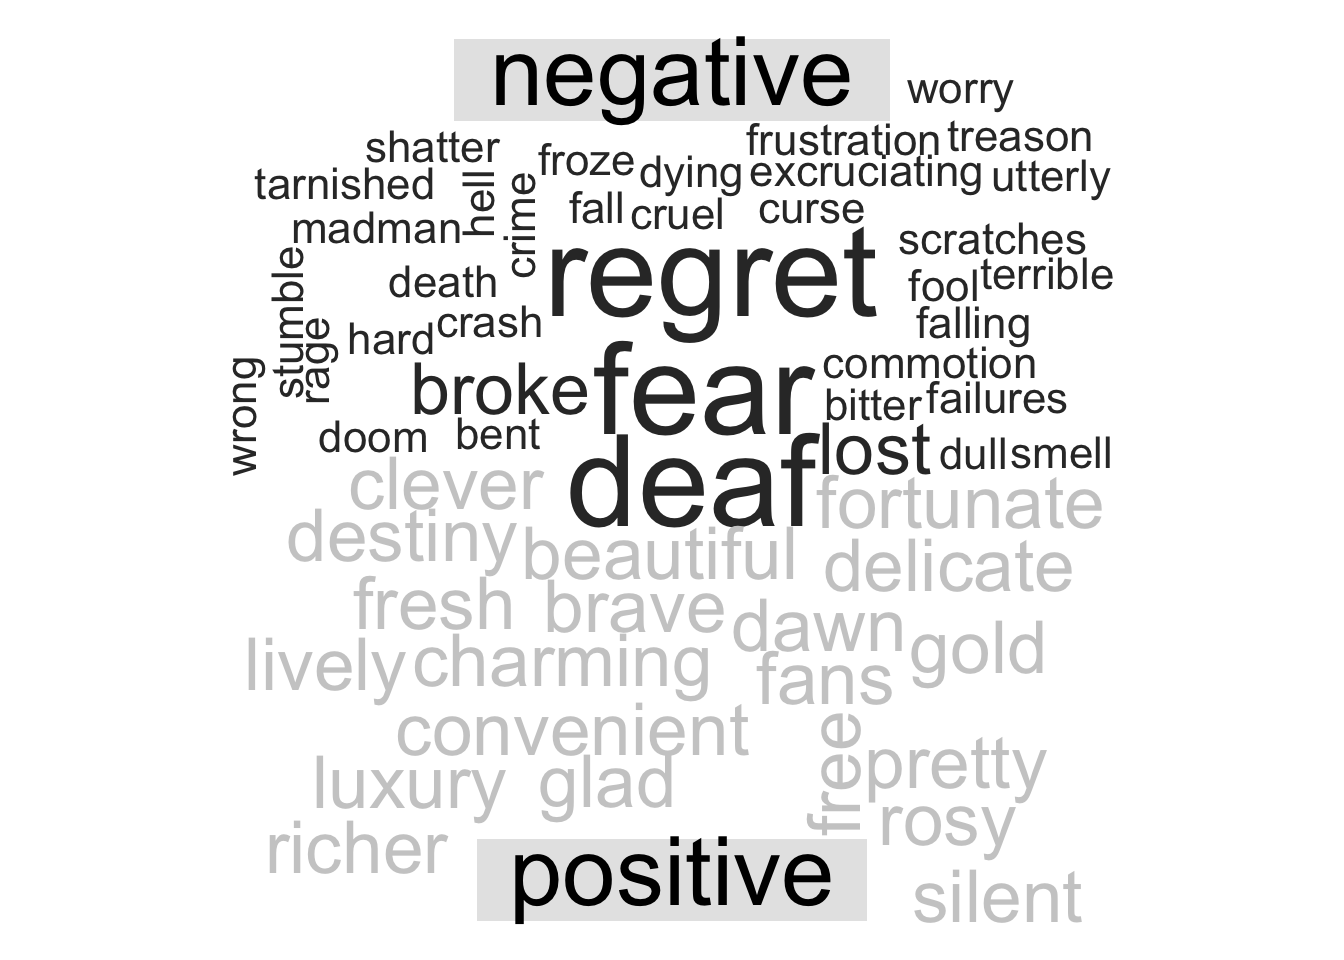
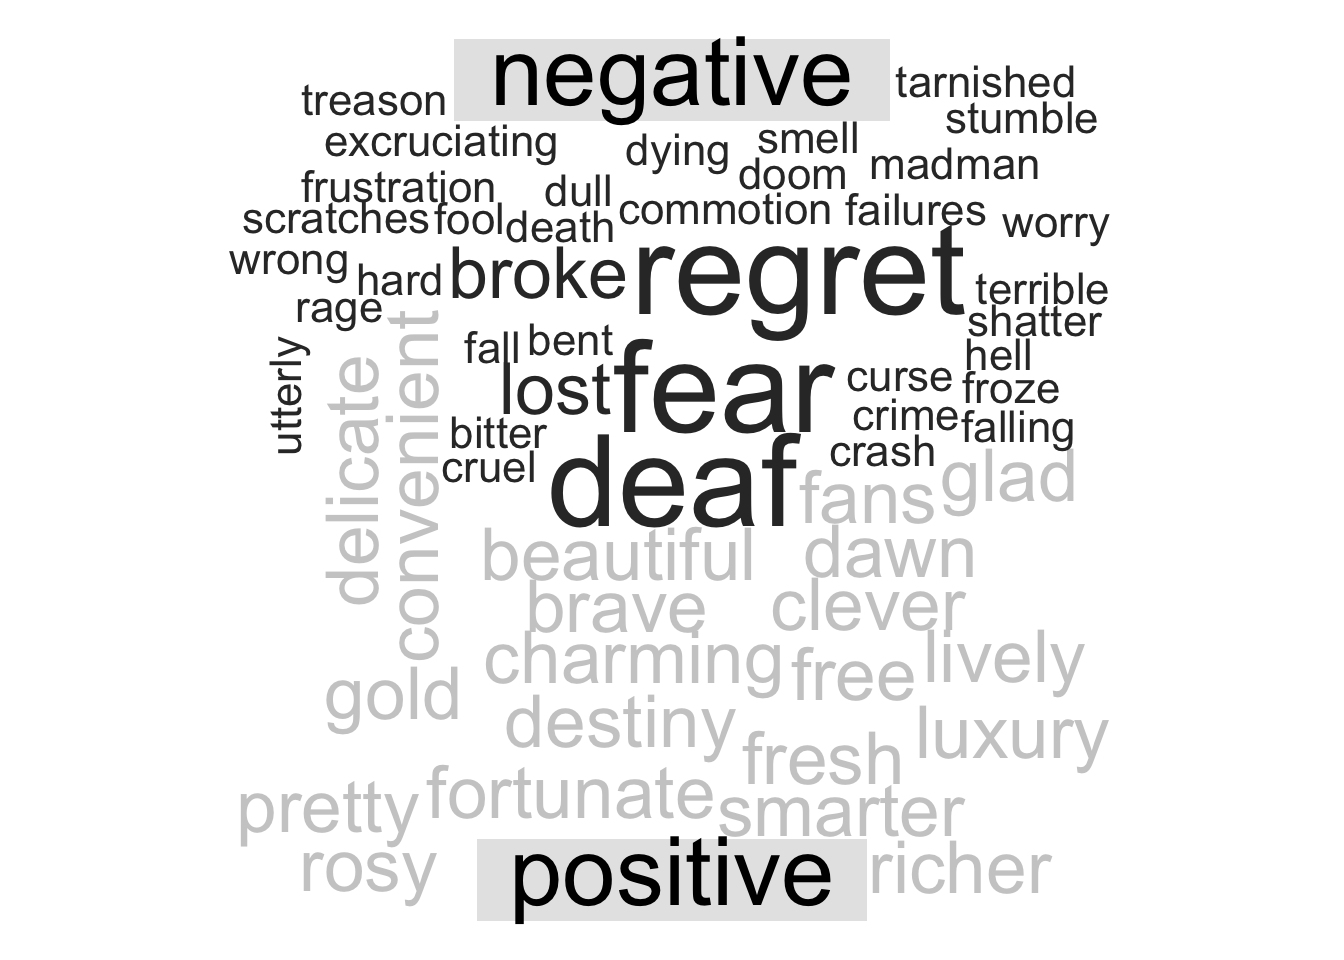
Test commit of poems and STEM project Grade 8

Changed region(s): [[0.1562, 0.0625, 0.8438, 0.9688]]

diff --git a/content/post/2018-11-19-stem-project-grade-8.html b/content/post/2018-11-19-stem-project-grade-8.html
@@ -1,0 +1,88 @@
+---
+title: STEM Project Grade 8
+author: Tara Kenner
+date: '2018-11-19'
+slug: stem-project-grade-8
+categories:
+  - data
+  - STEM
+  - Chemistry
+  - Chemotaxis
+  - Slime Mold
+tags:
+  - blogdown
+  - ggplot
+  - highcharter
+  - linear regression
+  - Statistics
+  - Physarum Polycephalum
+---
+
+
+
+<div id="title" class="section level3">
+<h3>Title</h3>
+<p>Investigating Chemotaxis by Analyzing the Effect of Glucose/Caffeine on Physarum Polycephalum cultures.</p>
+</div>
+<div id="introduction" class="section level3">
+<h3>Introduction</h3>
+<p>I wanted to do a project that involved observations in nature and apply statistics on those observations. We take our 10-lb dog Prince on a walk everyday around the Jordan Woods Natural Area, and I’ve noticed slime molds on fallen trees…etc…This got me interested in learning more about slime molds. Per this article <a href="https://www.quantamagazine.org/slime-molds-remember-but-do-they-learn-20180709/" class="uri">https://www.quantamagazine.org/slime-molds-remember-but-do-they-learn-20180709/</a>, there are more than 900 different species of slime molds, and a particular fascinating read (also cited in “Background Information”), titled “Slime molds crack 3 of the biggest issues in the U.S” by Robby Berman, that summarizes the results of the experiments by Jonathon Keats using slime molds to crack those 3 biggest issues (Destruction of our climate, The opioid epidemic, and immigration) motivated me to further understand these problem-solving, habituated-learning and smart “neuron-less and brain-less” Physarum Polycephalum via a project.</p>
+</div>
+<div id="questions" class="section level3">
+<h3>Questions</h3>
+<ul>
+<li>How will Physarum Polycephalum respond towards varying concentrations of glucose?
+<ul>
+<li>Is there a correlation we can establish between varying concentrations of glucose and PP’s chemotaxis?</li>
+<li>How will it respond when we substitute caffeine or salt for glucose?</li>
+</ul></li>
+<li>How long does it take a P. Polycephalum to find the glucose?</li>
+<li>What are the different ways Physarum Polycephalum responds to its environment/chemical stimuli?</li>
+<li>What are the various stages of growth of Physarum Plycephalum?</li>
+<li>Is Physarum Polycephalum capable of optimally finding food sources and avoiding harmful stimuli?</li>
+</ul>
+</div>
+<div id="variables" class="section level3">
+<h3>Variables</h3>
+<ul>
+<li>Independent: Food Source:
+<ul>
+<li>Different concentrations of glucose: 100-mM(millimolar), 10-mM, 1.0-mM, 0.1-mM, No * Glucose</li>
+<li>Different concentrations of caffeine: TBD, No Caffeine</li>
+</ul></li>
+<li>Dependent: Number of PP cultures that show:
+<ul>
+<li>Positive Growth: Towards Glucose/Caffeine</li>
+<li>Negative Growth: Away from Glucose/Caffeine</li>
+<li>Neutral Growth: Equal growth in Glucose/Caffeine or No Glucose/No Caffeine</li>
+</ul></li>
+<li>Control: PP cultures, Various concentrations of Glucose/Caffeine The experiment will be conducted using plasmodium cultures on filter paper strips soaked with the food source (as defined under Variables: Independent) in petri-dishes (5 in total with different concetrations of the food source) in our garage with minimal sunlight. The experiment will be repeated twice for the two food sources (Glucose, Caffeine). Observations(numerical and digital pictures) will be recorded. The analysis of the observations will be done using the statistical programming language R.</li>
+</ul>
+</div>
+<div id="terms-and-concepts-cited-from-science-buddies-please-see-background-information" class="section level3">
+<h3>Terms and Concepts (cited from Science Buddies; please see Background Information)</h3>
+<ul>
+<li>Physarum: Physarum is a genus of mycetozoan(grouping of slime molds) slime molds and Physarum Polycephalum is one of its species.</li>
+<li>Eukarytotic: Organisms whose cells have a nucleus enclosed within membranes.</li>
+<li>Slime mold: An informal name given to several kinds of unrelated eukaryotic orgranisms. Physarum Polycephalum is a member of slime mold.</li>
+<li>Protist: Any eukaryotic organism that is not an animal, plant or fungus. The slime mold is classified as a protist.</li>
+<li>Plasmodium: The vegetative phase of a two part life-cycle of a slime mold. It consists of networks of protoplasmic veins, many nuclei, and lives as a shapeless, growing blog during moist, warm weather. It’s color varies from gray, cream, colourless, to bright yellow or orange. It is during this stage that it searches for food.</li>
+<li>Fruiting body: During the second phase of a slime mold, when the environment is dry, the shapeless, growing blob transforms into small stock-like fruiting bodies that are full of dust like spores.</li>
+<li>Environmental cue: The information a physarum plasmodium has to rely on in search of food. It uses the information to decide whether to move towards a food source or away from the harmful substances.</li>
+<li>Chemical cue: The chemical information that a plasmodium uses to decide whether to move towards or away from the chemical in question.</li>
+<li>Chemotaxis: When an organism moves in repsonse to a chemical stimulus. Movement toward a higher concentration of chemical in question is termed as positive chemotaxis, while a movement in the opposite direction is negative chemotaxis.</li>
+<li>Physarum polycephalum: One of the slime molds that literally translates to “many-headed slime”. It is a unicellular organism that lives in dark, cool and humid areas such as leaf litter and other organic debris.</li>
+<li>Millimolar concentration: Measurement unit for the concentration of an ingredient in solution.</li>
+</ul>
+</div>
+<div id="background-information" class="section level3">
+<h3>Background Information:</h3>
+<ul>
+<li>Robby Berman(March 17th, 2018). Slime molds crack 3 of the biggest issues in the U.S. Retrieved October 31st, 2018, from <a href="https://bigthink.com/robby-berman/slime-molds-crack-3-of-the-biggest-issues-in-the-us" class="uri">https://bigthink.com/robby-berman/slime-molds-crack-3-of-the-biggest-issues-in-the-us</a>. “At an event on March 2, their secretary, experimental philosopher and conceptual artist Jonathon Keats, announced the group has cracked three of America’s most vexing and controversial problems: the destruction of our climate, the opioid epidemic, and immigration. The Consortium’s secret? It brings a unique perspective to these issues. “They’re all slime molds,” says Keats. This is the first analysis of these issues by non-human scholars, he notes, asserting, “Their advice is objective, and transcends our polarized political environment because they don’t belong to our species.” (A slime mold was previously appointed to the Hampshire faculty.)”</li>
+<li>Katia Moskvitch, Contributing Writer, Cognitive Science (2018, July 9). Slime Molds Remember, but do they learn? Retrieved November 15th, 2018, from <a href="https://www.quantamagazine.org/slime-molds-remember-but-do-they-learn-20180709/" class="uri">https://www.quantamagazine.org/slime-molds-remember-but-do-they-learn-20180709/</a>. “In experiments conducted by Dussutour’s team, disks of yellow slime mold (at bottom) can eat plates of oatmeal (at top) — but only if they cross gelatinous bridges (at center) laced with noxious but harmless compounds. Here, the middle slime mold sample has learned to disregard the chemicals, a process called habituation.”</li>
+<li>Science Buddies Staff. (2017, July 28). Slimey Likes It! Studying Chemotaxis in Physarum Polycephalum . Retrieved October 31st, 2018, from <a href="https://www.sciencebuddies.org/science-fair-projects/project-ideas/MicroBio_p028/microbiology/chemotaxis-slime-mold" class="uri">https://www.sciencebuddies.org/science-fair-projects/project-ideas/MicroBio_p028/microbiology/chemotaxis-slime-mold</a>. Details summary, background, materials and procedures required for the study of chemotaxis in Physarum Polycephalum with the objective of exploring chemotactic responses of P.polycephalum in culture exposed to various amounts of glucose.</li>
+<li>Ferris Jabr, Nature|Scientific American (2012, November 13) How brainless slime molds redefine intelligence. Retrieved November 18th, 2018, from <a href="https://www.nature.com/news/how-brainless-slime-molds-redefine-intelligence-1.11811" class="uri">https://www.nature.com/news/how-brainless-slime-molds-redefine-intelligence-1.11811</a>. “Something scientists have come to understand is that slime molds are much smarter than they look. One species in particular, the SpongeBob SquarePants–yellow Physarum polycephalum, can solve mazes, mimic the layout of man-made transportation networks and choose the healthiest food from a diverse menu—and all this without a brain or nervous system.”Slime molds are redefining what you need to have to qualify as intelligent,&quot; Reid says.”</li>
+<li>Elizabeth Paine, Product Developer, retrieved November 12th, 2018, from <a href="https://www.carolina.com/teacher-resources/Interactive/think-single-celled-organisms-are-simple-think-again-the-slime-mold-physarum-polycephalum-a-single-celled-organism-for-student-investigations/tr41405.tr" class="uri">https://www.carolina.com/teacher-resources/Interactive/think-single-celled-organisms-are-simple-think-again-the-slime-mold-physarum-polycephalum-a-single-celled-organism-for-student-investigations/tr41405.tr</a></li>
+<li>Wkipedia: <a href="https://en.wikipedia.org/wiki/Chemotaxis" class="uri">https://en.wikipedia.org/wiki/Chemotaxis</a></li>
+</ul>
+</div>

diff --git a/content/post/2018-08-06-functions-graphs.html b/content/post/2018-08-06-functions-graphs.html
@@ -1,0 +1,56 @@
+---
+title: Functions & Graphs
+author: Tara Kenner
+date: '2018-08-06'
+slug: functions-graphs
+categories:
+  - math
+  - data
+  - Algebra
+tags:
+  - Equations
+  - ggplot
+---
+
+
+
+<p>So over the summer, I took some Algebra/Advanced Algebra classes at Saturday Academy at PSU. We covered Exponents, Logarithms, matrices, polynomials, quadratics, solving systems of equations w/different methods, Factorisation, Graphing of functions,compound interest……</p>
+<p>My favorite: Matrices, and graphs, so I’ll start out with writing functions and plotting them in R.</p>
+<p>Linear equation in slope intercept form:</p>
+<pre class="r"><code>library(tidyverse)</code></pre>
+<pre><code>## Loading tidyverse: ggplot2
+## Loading tidyverse: tibble
+## Loading tidyverse: tidyr
+## Loading tidyverse: readr
+## Loading tidyverse: purrr
+## Loading tidyverse: dplyr</code></pre>
+<pre><code>## Conflicts with tidy packages ----------------------------------------------</code></pre>
+<pre><code>## filter(): dplyr, stats
+## lag():    dplyr, stats</code></pre>
+<pre class="r"><code>func_parabola &lt;- function(x) {
+  x^2
+}
+
+func_parabola = function(x){
+  x^2
+}
+
+plot(func_parabola, 2,-2)</code></pre>
+<p><img src="/post/2018-08-06-functions-graphs_files/figure-html/unnamed-chunk-1-1.png" width="672" /></p>
+<pre class="r"><code>domain_data &lt;- tibble(x = c(2,-2))
+
+plot(func_parabola(c(2,-2)))</code></pre>
+<p><img src="/post/2018-08-06-functions-graphs_files/figure-html/unnamed-chunk-1-2.png" width="672" /></p>
+<pre class="r"><code>domain_data %&gt;% ggplot(aes(x = x)) + stat_function(fun = func_parabola)</code></pre>
+<p><img src="/post/2018-08-06-functions-graphs_files/figure-html/unnamed-chunk-1-3.png" width="672" /></p>
+<pre class="r"><code>domain_data_1 &lt;- tibble(x = c(2,4))
+sqroot_function &lt;- function(x){
+  if(x&gt;=0) {
+    sqrt(x)
+  }
+}
+
+domain_data_1 %&gt;% ggplot(aes(x =x)) + stat_function(fun = sqroot_function)</code></pre>
+<pre><code>## Warning in if (x &gt;= 0) {: the condition has length &gt; 1 and only the first
+## element will be used</code></pre>
+<p><img src="/post/2018-08-06-functions-graphs_files/figure-html/unnamed-chunk-2-1.png" width="672" /></p>

diff --git a/content/post/2018-08-04-poem-with-blogdow.html b/content/post/2018-08-04-poem-with-blogdow.html
@@ -3,10 +3,15 @@ title: 'Poem & Sentiment Analysis with Blogdown '
 author: Tara Kenner
 date: '2018-08-04'
 slug: poem-with-blogdow
-categories: []
+categories:
+  - Poetry
+  - Sentiment Analysis
+  - r
 tags:
-  - R
   - blogdown
+  - R Markdown
+  - tidytext
+  - word cloud
 ---
 
 
@@ -124,3 +129,4 @@ tara_poem_text&lt;- table_tara_poem %&gt;%
   acast(word~sentiment, value.var = &quot;n&quot;, fill = 0) %&gt;% 
   comparison.cloud(colors = c(&quot;gray20&quot;, &quot;gray80&quot;), max.words = 100)</code></pre>
 <p><img src="/post/2018-08-04-poem-with-blogdow_files/figure-html/unnamed-chunk-3-1.png" width="672" /></p>
+<p>Appears my poems reflect quite a bit of negative sentiment. Next, I’ll try and evaluate my essays <span class="citation">@language</span> Arts class.</p>
